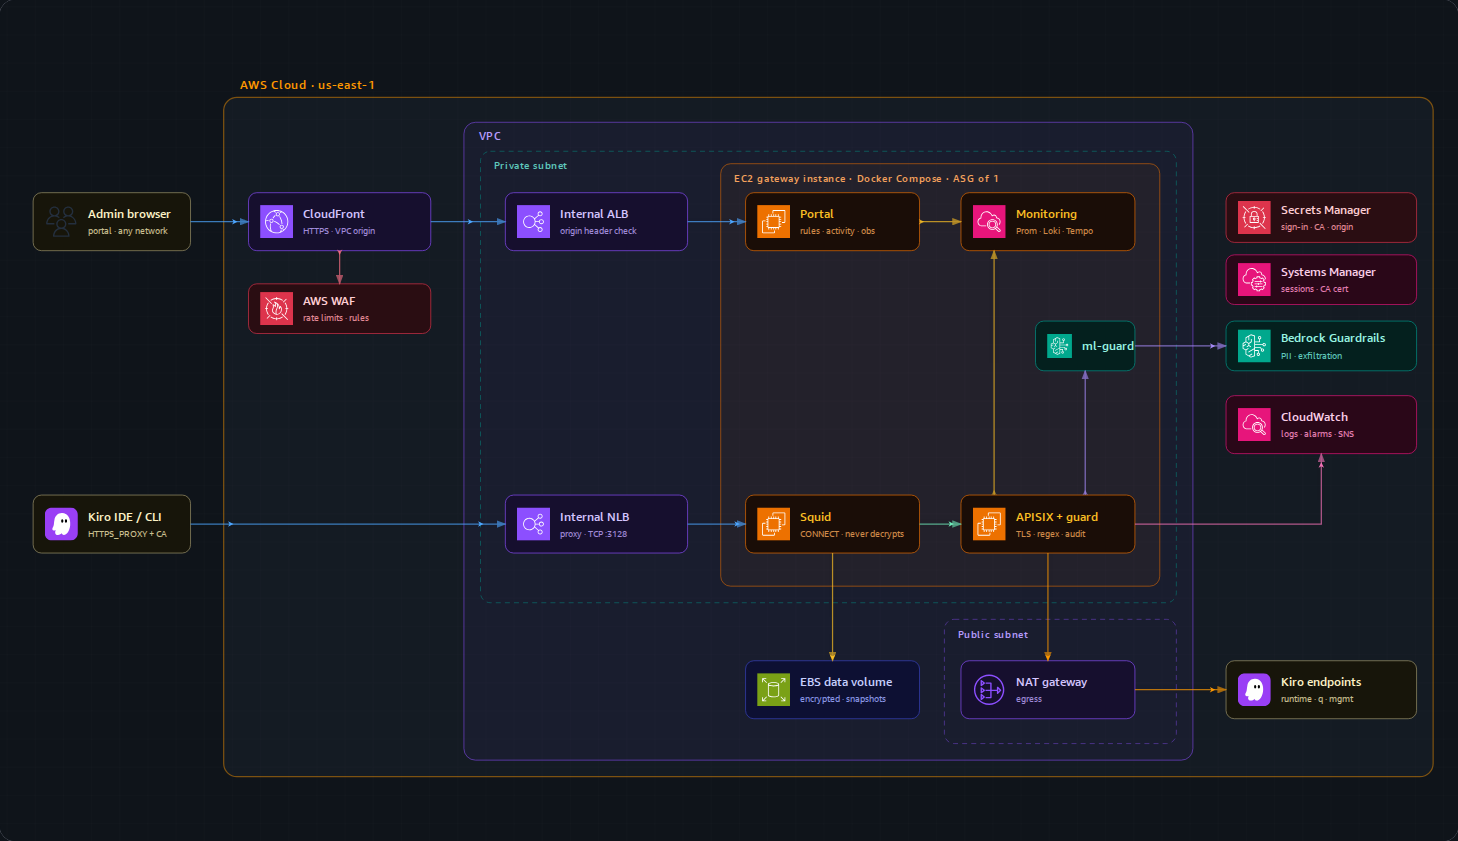
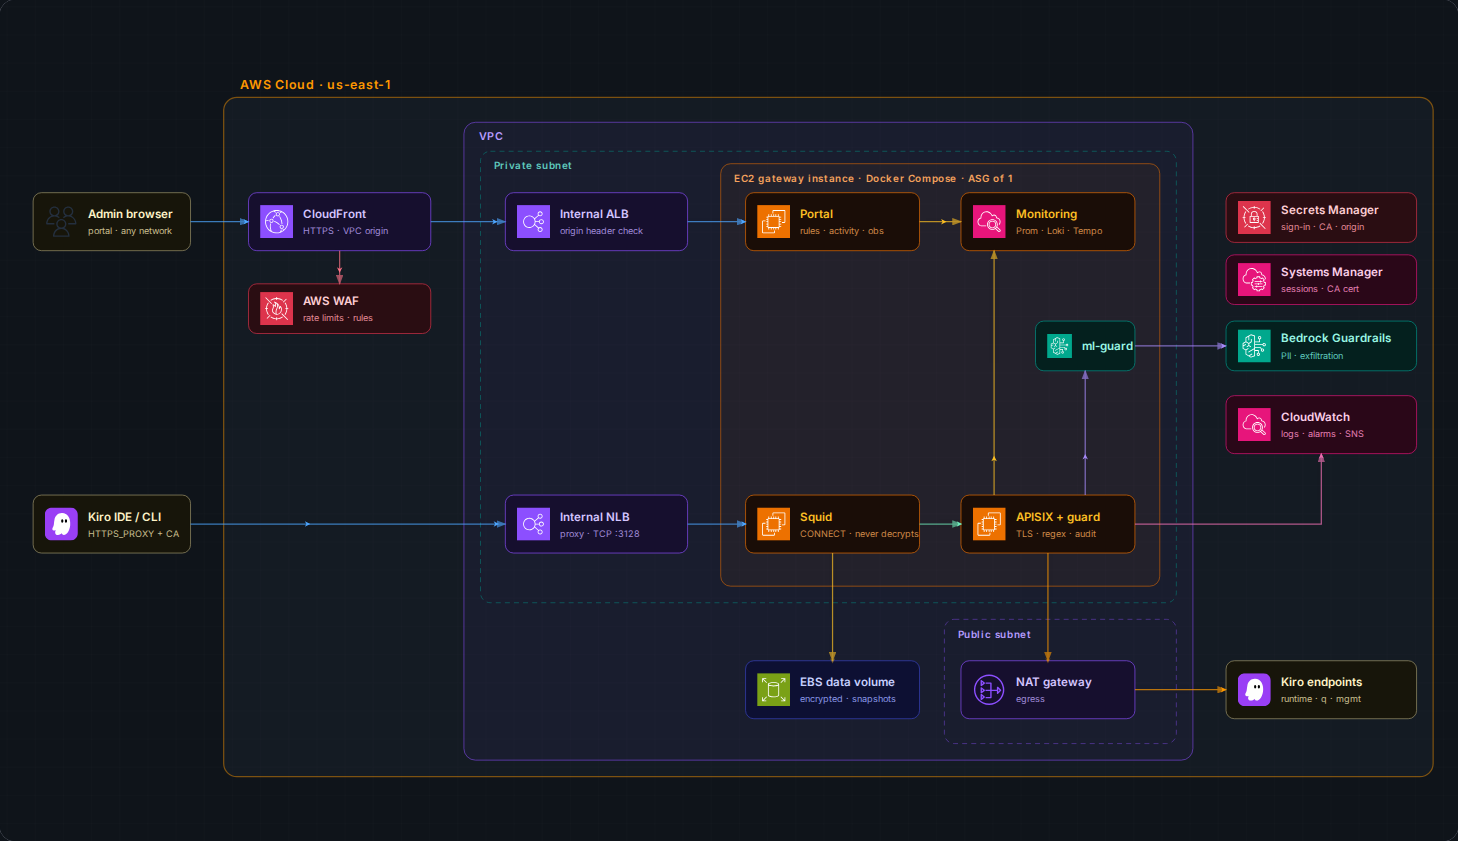
README: how to serve other machines (bind addresses, allow lists, certificate names)
The 127.0.0.1 defaults keep a fresh clone closed; the AWS stack overrides them. New section with
a worked .env example for a self-hosted server, how to apply it, and the open-proxy warning;
configuration table rows point to it.

diff --git a/README.md b/README.md
@@ -74,9 +74,31 @@ scripts/apply.sh           # pushes routes, policy and certificates to APISIX
 
 - Check everything end to end: `scripts/verify.sh`.
 
-Everything binds to `127.0.0.1` by default. To serve other machines, set `KGW_BIND_ADDR`,
-`KGW_PROXY_BIND_ADDR`, `CONSOLE_ALLOW_CIDRS`, `KGW_PROXY_ALLOW_CIDRS` and `KGW_PUBLIC_NAMES` in
-`.env`, re-run `scripts/init.sh`, then `docker compose up -d` (see [Configuration](#configuration)).
+### Serving other machines
+
+Out of the box everything binds to `127.0.0.1`, so a fresh clone exposes nothing until you decide
+who may connect. The AWS stack sets these for you (see [Deploy to AWS](#deploy-to-aws)). On your
+own server, set them in `.env`:
+
+```bash
+# Listen on every interface (or one specific address)
+KGW_BIND_ADDR=0.0.0.0            # portal, https://<server>:9180/
+KGW_PROXY_BIND_ADDR=0.0.0.0      # Kiro proxy, http://<server>:3128
+# Who may connect. Keep the first two entries: they are this host's own scripts and Docker.
+CONSOLE_ALLOW_CIDRS=127.0.0.0/8,172.30.0.1/32,10.20.0.0/16     # + your admin / VPN network
+KGW_PROXY_ALLOW_CIDRS=10.20.0.0/16                              # your developers' network
+# Names clients use for the portal, so its TLS certificate matches
+KGW_PUBLIC_NAMES=gateway.example.internal,10.20.1.5
+```
+
+Then apply them: `scripts/init.sh` (rebuilds the proxy allow list; delete `pki/admin/` first if you
+changed `KGW_PUBLIC_NAMES`, so the portal certificate is reissued), `docker compose up -d`, and open
+the same ports in your host firewall or security group. Both allow lists are enforced by the
+gateway itself (the portal checks every request; Squid has an ACL), so they still apply behind a
+load balancer that preserves client IPs. Behind a reverse proxy or CDN that does not, see
+`CONSOLE_TRUSTED_PROXY_CIDRS`.
+
+Never open the proxy to the internet (`0.0.0.0/0`): anyone who reaches it could use it.
 
 To turn on the Bedrock layer, create a guardrail (definition in
 `docs/evaluation/bedrock-guardrail.json`, or let the AWS stack create one), set
@@ -229,9 +251,9 @@ dashboard (routes, upstreams, consumers, SSL, plugins) using the server-side adm
 |---|---|---|
 | `APISIX_ADMIN_KEY`, `AI_GW_DEMO_KEY`, `AI_GW_MOCK_TOKEN` | generated | Admin API key, demo consumer key for the AI route, mock LLM token. |
 | `CONSOLE_USER`, `CONSOLE_PASSWORD_HASH` | generated | Portal sign-in (scrypt hash). Change with `scripts/console-passwd.sh <user> --stdin`. |
-| `KGW_BIND_ADDR`, `KGW_PORT` | `127.0.0.1`, `9180` | Where the portal listens. |
-| `KGW_PROXY_BIND_ADDR` | `127.0.0.1` | Where Squid's :3128 listens. |
-| `CONSOLE_ALLOW_CIDRS` | `127.0.0.0/8,172.30.0.1/32` | Networks allowed to use the portal (keep the defaults; they are the host's own scripts). |
+| `KGW_BIND_ADDR`, `KGW_PORT` | `127.0.0.1`, `9180` | Where the portal listens. `0.0.0.0` to serve other machines ([how](#serving-other-machines)). |
+| `KGW_PROXY_BIND_ADDR` | `127.0.0.1` | Where Squid's :3128 listens. `0.0.0.0` to serve other machines. |
+| `CONSOLE_ALLOW_CIDRS` | `127.0.0.0/8,172.30.0.1/32` | Networks allowed to use the portal. Append yours; keep the two defaults (the host's own scripts and Docker). |
 | `CONSOLE_TRUSTED_PROXY_CIDRS` | empty | Only behind CloudFront: networks whose `CloudFront-Viewer-Address` header is trusted. |
 | `KGW_PROXY_ALLOW_CIDRS` | empty (this host only) | Networks allowed to use the proxy. |
 | `KGW_PUBLIC_NAMES` | empty | Extra DNS names / IPs for the portal certificate. |
